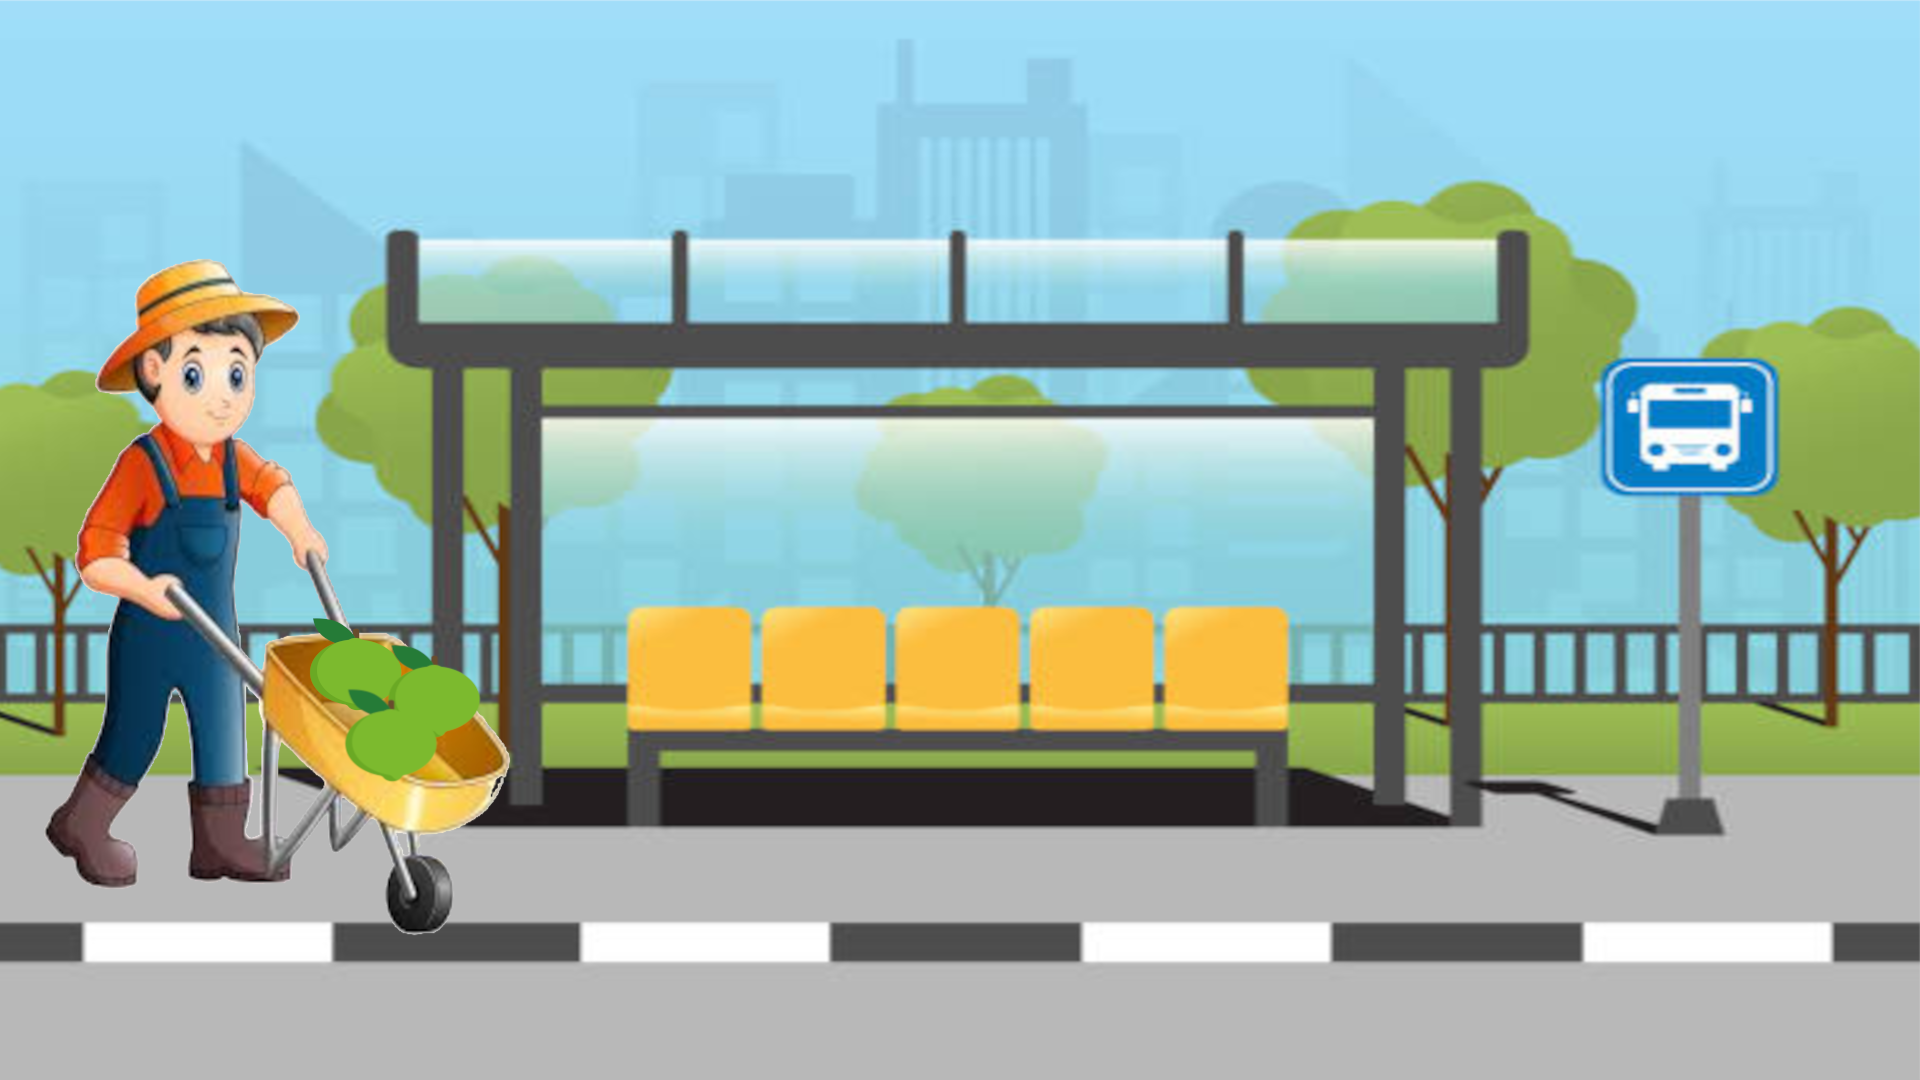
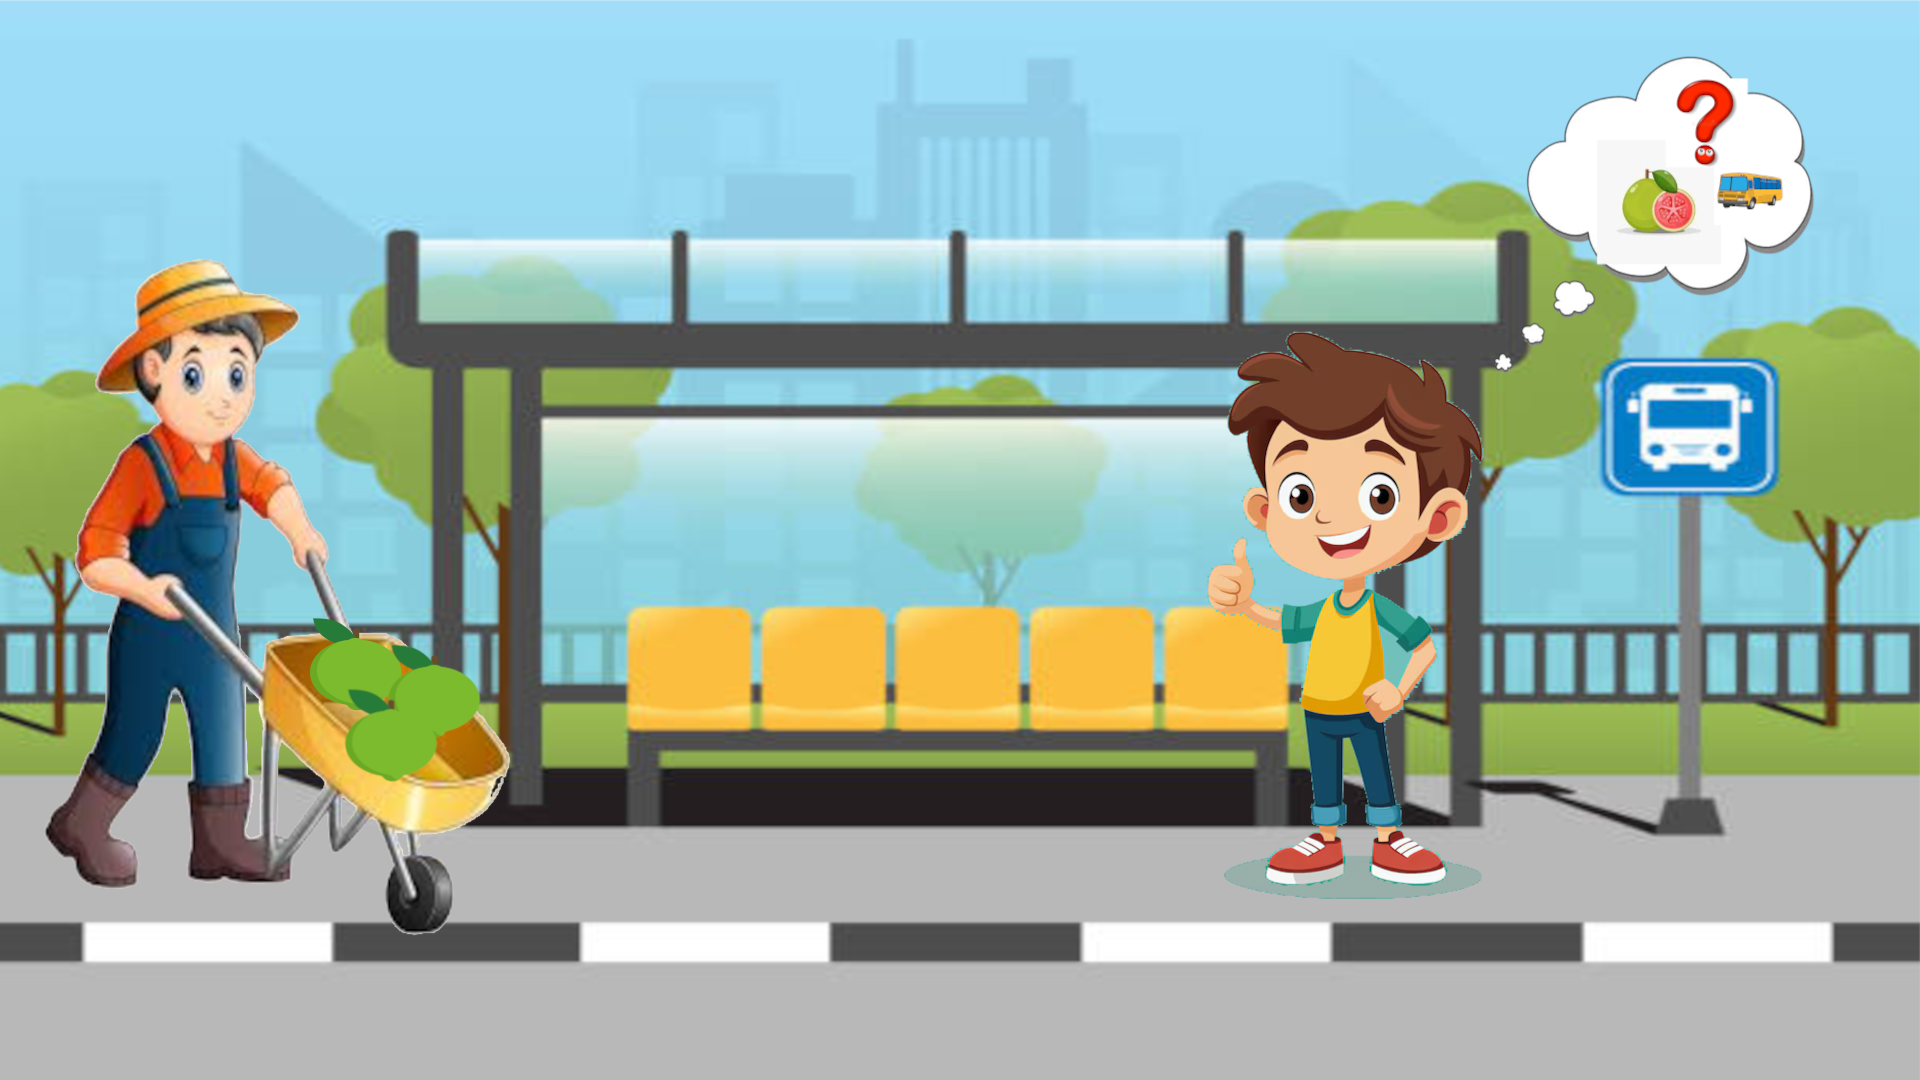
final

Changed region(s): [[0.625, 0.3056, 0.7812, 0.8556], [0.7812, 0.0306, 0.9688, 0.3056], [0.7812, 0.3056, 0.8125, 0.3361]]

diff --git a/pages/A-p1.html b/pages/A-p1.html
@@ -14,28 +14,32 @@
     <link rel="stylesheet" href="/css/style.css" />
   </head>
   <body class="d-flex justify-content-center align-items-center vh-100">
-    <h1>Contexto Inicial</h1>
+    <h1>Pegar o Ônibus</h1>
     <div class="card">
       <div class="card-body">
-        O personagem (Juca) tem R$ 1,50 e está com muita fome. <br />
-        Em um ponto de ônibus na quebrada, ao lado de um vendedor de goiabas.<br />
+        <h3>O Juca escolhe pegar o ônibus. </h3>
       </div>
       <ul class="list-group">
         <li class="list-group-item active" aria-current="true">
-          Dilema Principal:
+          A fome continua, mas você chegou ao seu destino.
         </li>
-        <a href="A-p1.html" class="list-group-item btn btn-outline-secondary"
-          >Opção A: Pegar o ônibus. 🚌 </a
-        >
-        <a href="B-p1.html" class="list-group-item btn btn-outline-secondary"
-          >Opção B: Comprar a goiaba 🍐.
-        </a>
+        <li class="list-group-item active" aria-current="true">
+          "Final do Destino Cumprido". Você não comeu a goiaba, mas chegou em casa.
+        </li>
       </ul>
     </div>
     <p></p>
     <div class="d-flex justify-content-between">
-      <div><img style="width: 550px; height: 300px;" src="/img/vendedor.png" alt="" /></div>
+      <div class="img"><img src="/img/cobrador.jpg" alt="" /></div>
+      <div class="img"><img src="/img/JucaNoOnibus.jpg" alt="" /></div>
+      <div class="img"><img src="/img/casa.jpg" alt="" /></div>
     </div>
+
+    <p></p>
+    <div class="text-center">
+      <a href="/index.html" class="btn btn-outline-success">Voltar para o Inicio</a>
+    </div>
+
   </body>
 
   <script src="/js/jsBootstrap/bootstrap.bundle.js"></script>

diff --git a/pages/B-B-p2-1.html b/pages/B-B-p2-1.html
@@ -17,17 +17,17 @@
     <h1>Tenta pegar a goiaba de volta.</h1>
     <div class="card">
       <div class="card-body">
-        Juca tenta pegar a goiaba de volta, mas eles te intimidam. <br />
-        Juca ﬁca sem a goiaba e ainda corre o risco de confusão.
+        Juca tenta pegar a goiaba de volta, mas eles intimidam. <br />
+        Juca ﬁca sem a goiaba e ainda recebe um tapa na orelha 👊 👂.
         <br />
       </div>
       <ul class="list-group">
         <li class="list-group-item active" aria-current="true">
-          Juca está satisfeito, mas agora precisa voltar para casa a pé.<br />
+          Juca fica com as orelhas queimando, e ainda precisa voltar para casa a pé.<br />
         </li>
         <li class="list-group-item active" aria-current="true">
           <h3>
-            "Final do Arrependimento Amargo". Você perdeu a goiaba e a dignidade.
+            "Final do Arrependimento Amargo". Juca perdeu a goiaba e a dignidade.
           </h3>
         </li>
       </ul>
@@ -35,6 +35,7 @@
     <p></p>
     <div class="d-flex justify-content-between">
       <div class="img"><img src="/img/jucaP.png" alt="" /></div>
+      <div class="img"><img src="/img/jucaCasaP.png" alt="" /></div>
     </div>
     <p></p>
     <div class="text-center">

diff --git a/pages/B-p1.html b/pages/B-p1.html
@@ -22,13 +22,13 @@
       </div>
       <ul class="list-group">
         <li class="list-group-item active" aria-current="true">
-          Dois "malucos" chamam o jogador.:
+          Os "malucos" chamam o Juca:
         </li>
         <a href="B-A-p1.html" class="list-group-item btn btn-outline-secondary"
-          >Opção A: Segurar a goiaba com força e tentar ignorá-los.</a
+          >Opção A: Segurar a goiaba com força e tentar ignorá-los. 💪🏼</a
         >
         <a href="B-B-p2.html" class="list-group-item btn btn-outline-secondary"
-          >Opção B: Se aproximar e perguntar "Qual é que foi, bicho?".
+          >Opção B: Se aproximar e perguntar "Qual é que foi, bicho?" 😅.
         </a>
       </ul>
     </div>

diff --git a/pages/B-A-p1.html b/pages/B-A-p1.html
@@ -17,7 +17,7 @@
     <h1>Segurar a goiaba com força e tentar ignorá-los.</h1>
     <div class="card">
       <div class="card-body">
-        Os malucos tentam tomar a goiaba, mas o jogador consegue correr e <br />
+        Os malucos tentam tomar a goiaba, mas o jogador consegue correr e
         morde a goiaba, comendo-a rapidamente.
         <br />
       </div>

diff --git a/pages/B-B-p3.html b/pages/B-B-p3.html
@@ -27,7 +27,7 @@
         </li>
         <li class="list-group-item active" aria-current="true">
           <h3>
-            "Final do Arrependimento Amargo". Você perdeu a goiaba e a dignidade.
+            "Final do Arrependimento Amargo".
           </h3>
         </li>
       </ul>
